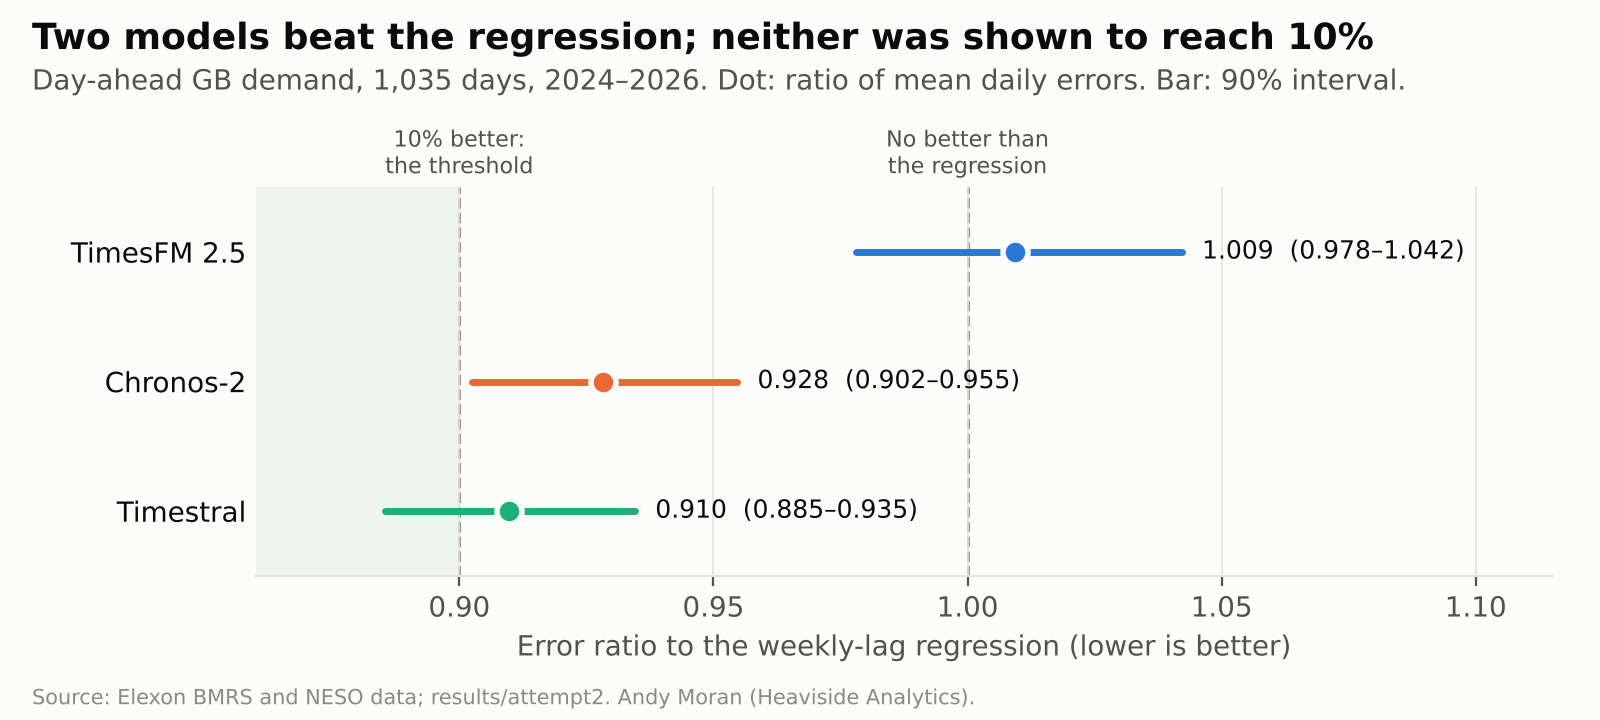
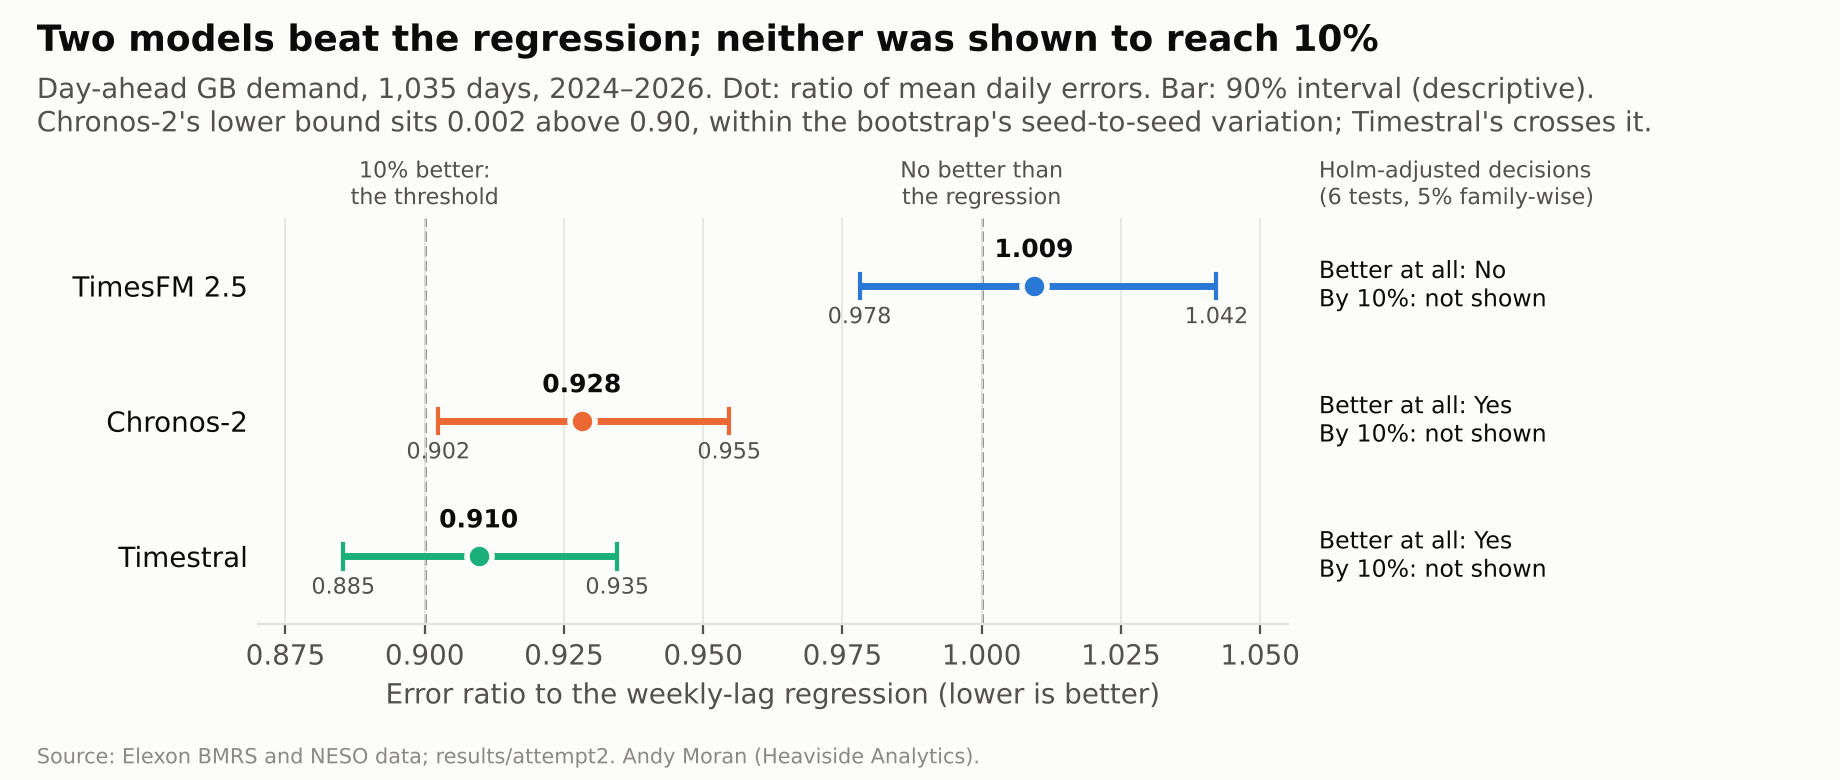
Figures revised (numeric interval ends and Holm decisions on fig 1; difference panel on fig 3; NESO on fig 4) and placed in the note; seasonal-naive floor, time-of-day and bank-holiday text corrected

diff --git a/figures/make_figures.py b/figures/make_figures.py
@@ -24,9 +24,9 @@ plt.rcParams.update({'font.family': 'DejaVu Sans', 'font.size': 10, 'axes.edgeco
                      'savefig.facecolor': SURFACE, 'axes.spines.top': False, 'axes.spines.right': False})
 
 
-def frame(fig, title, subtitle, note=SOURCE):
+def frame(fig, title, subtitle, note=SOURCE, sub_y=0.905):
     fig.text(0.02, 0.97, title, fontsize=13, fontweight='bold', color=INK, va='top')
-    fig.text(0.02, 0.905, subtitle, fontsize=10, color=INK2, va='top')
+    fig.text(0.02, sub_y, subtitle, fontsize=10, color=INK2, va='top')
     fig.text(0.02, 0.015, note, fontsize=7.5, color=MUTED, va='bottom')
 
 
@@ -35,22 +35,32 @@ def save(fig, name):
 
 
 # 1. The headline: ratio to the regression, with 90% intervals, against 1.0 and the 10% threshold
-fig, ax = plt.subplots(figsize=(8, 3.6)); fig.subplots_adjust(left=0.16, right=0.97, top=0.74, bottom=0.2)
-ax.axvspan(0.80, 0.90, color='#eef5ee', zorder=0)
+H = R['primary_tests_holm']
+fig, ax = plt.subplots(figsize=(9.2, 3.9)); fig.subplots_adjust(left=0.14, right=0.70, top=0.72, bottom=0.2)
 for x, lab in ((1.0, 'No better than\nthe regression'), (0.90, '10% better:\nthe threshold')):
     ax.axvline(x, color=MUTED, lw=1, ls='--', zorder=1)
     ax.text(x, 3.05, lab, ha='center', va='bottom', fontsize=8, color=INK2)
+ax.text(1.03, 3.05, 'Holm-adjusted decisions\n(6 tests, 5% family-wise)', transform=ax.get_yaxis_transform(),
+        ha='left', va='bottom', fontsize=8, color=INK2)
 for i, m in enumerate(reversed(MODELS)):
     c = R['primary'][m]; lo, hi = c['ci90_descriptive']; y = i + 0.5
-    ax.plot([lo, hi], [y, y], color=COLOUR[m], lw=2.5, solid_capstyle='round', zorder=2)
+    ax.plot([lo, hi], [y, y], color=COLOUR[m], lw=2.5, solid_capstyle='butt', zorder=2)
+    for e in (lo, hi): ax.plot([e, e], [y - 0.09, y + 0.09], color=COLOUR[m], lw=1.5, zorder=2)
     ax.plot(c['ratio'], y, 'o', ms=9, color=COLOUR[m], mec=SURFACE, mew=2, zorder=3)
-    ax.text(hi + 0.004, y, f"{c['ratio']:.3f}  ({lo:.3f}–{hi:.3f})", va='center', fontsize=9, color=INK)
+    ax.text(c['ratio'], y + 0.17, f"{c['ratio']:.3f}", ha='center', va='bottom', fontsize=9, color=INK, fontweight='bold')
+    ax.text(lo, y - 0.15, f'{lo:.3f}', ha='center', va='top', fontsize=8, color=INK2)
+    ax.text(hi, y - 0.15, f'{hi:.3f}', ha='center', va='top', fontsize=8, color=INK2)
+    better = 'Yes' if H[f'{m}_improvement']['rejected'] else 'No'
+    ten = 'yes' if H[f'{m}_meaningful']['rejected'] else 'not shown'
+    ax.text(1.03, y, f'Better at all: {better}\nBy 10%: {ten}', transform=ax.get_yaxis_transform(),
+            ha='left', va='center', fontsize=8.5, color=INK)
 ax.set_yticks([0.5, 1.5, 2.5]); ax.set_yticklabels([NAME[m] for m in reversed(MODELS)], fontsize=10, color=INK)
 ax.tick_params(axis='y', length=0); ax.spines['left'].set_visible(False)
-ax.set_xlim(0.86, 1.115); ax.set_ylim(0, 3.0); ax.set_xlabel('Error ratio to the weekly-lag regression (lower is better)')
+ax.set_xlim(0.87, 1.055); ax.set_ylim(0, 3.0); ax.set_xlabel('Error ratio to the weekly-lag regression (lower is better)')
 ax.grid(axis='x', color=GRID, lw=0.6, zorder=0)
 frame(fig, 'Two models beat the regression; neither was shown to reach 10%',
-      'Day-ahead GB demand, 1,035 days, 2024–2026. Dot: ratio of mean daily errors. Bar: 90% interval.')
+      "Day-ahead GB demand, 1,035 days, 2024–2026. Dot: ratio of mean daily errors. Bar: 90% interval (descriptive).\n"
+      "Chronos-2's lower bound sits 0.002 above 0.90, within the bootstrap's seed-to-seed variation; Timestral's crosses it.")
 save(fig, 'fig1_ratios.png')
 
 
@@ -72,47 +82,56 @@ frame(fig, "NESO's forecast has about half the error of every model",
 save(fig, 'fig2_error_ladder.png')
 
 
-# 3. Error by time of day (exploratory)
+# 3. Error by time of day (exploratory): levels, and each model's difference from the regression
 tod = R['exploratory']['mae_by_time_of_day']
 slots = [f'{h:02d}:{m:02d}' for h in range(24) for m in (0, 30)]
-fig, ax = plt.subplots(figsize=(9, 4.4)); fig.subplots_adjust(left=0.09, right=0.97, top=0.78, bottom=0.17)
+fig, (ax, bx) = plt.subplots(2, 1, figsize=(9, 7.2), sharex=True, gridspec_kw={'height_ratios': [1.25, 1]})
+fig.subplots_adjust(left=0.1, right=0.97, top=0.855, bottom=0.11, hspace=0.18)
 lines = ['regression', 'timesfm25', 'chronos2', 'timestral', 'neso']
-ends = {}
 for m in lines:
-    ys = [tod[m][s] for s in slots]
-    ax.plot(range(48), ys, color=COLOUR[m], lw=2, ls='--' if m == 'regression' else '-', zorder=3 if m in MODELS else 2)
-    ends[m] = ys[-1]
-ax.set_xticks(range(0, 48, 6)); ax.set_xticklabels(slots[::6]); ax.set_xlim(0, 47)
-ax.set_ylim(0, 2850); ax.set_ylabel('Mean absolute error (MW)'); ax.set_xlabel('UK clock time (start of half-hour)')
-ax.grid(axis='y', color=GRID, lw=0.6, zorder=0)
+    ax.plot(range(48), [tod[m][s_] for s_ in slots], color=COLOUR[m], lw=2, ls='--' if m == 'regression' else '-',
+            zorder=3 if m in MODELS else 2)
+ax.set_ylim(0, 2850); ax.set_ylabel('Mean absolute error (MW)'); ax.grid(axis='y', color=GRID, lw=0.6, zorder=0)
 ax.legend([plt.Line2D([], [], color=COLOUR[m], lw=2, ls='--' if m == 'regression' else '-') for m in lines],
           [NAME[m] for m in lines], ncol=5, frameon=False, fontsize=8.5, loc='upper left', bbox_to_anchor=(0, 1.02))
-frame(fig, 'The models gain most overnight; every forecaster errs most at midday',
-      'Mean absolute error by half-hour of the target day, 2024–2026. Exploratory: not tested.')
+ax.text(0.0, 1.07, 'Error by time of day', transform=ax.transAxes, fontsize=9.5, color=INK, fontweight='bold')
+bx.axhline(0, color=INK2, lw=1, ls='--', zorder=1)
+for m in MODELS:
+    bx.plot(range(48), [tod[m][s_] - tod['regression'][s_] for s_ in slots], color=COLOUR[m], lw=2, zorder=3)
+bx.set_ylabel('Model minus regression (MW)'); bx.grid(axis='y', color=GRID, lw=0.6, zorder=0)
+bx.text(0.0, 1.03, 'Difference from the regression (below the dashed line: the model gains)', transform=bx.transAxes,
+        fontsize=9.5, color=INK, fontweight='bold')
+bx.set_xticks(range(0, 48, 6)); bx.set_xticklabels(slots[::6]); bx.set_xlim(0, 47)
+bx.set_xlabel('UK clock time (start of half-hour)')
+frame(fig, "The models' edge is largest from midnight to late morning and fades by evening",
+      'Mean absolute error by half-hour of the target day, 2024–2026. Exploratory: not tested; no intervals shown.',
+      sub_y=0.935)
 save(fig, 'fig3_time_of_day.png')
 
 
-# 4. Where the models win and lose: season and bank holidays (exploratory)
+# 4. Where the models win and lose: season and bank holidays (exploratory), with NESO for comparison
 season = R['exploratory']['mae_by_season']; hol = R['exploratory']['mae_by_holiday']
 rows = [('Winter', season, 'winter'), ('Spring', season, 'spring'), ('Summer', season, 'summer'),
         ('Autumn', season, 'autumn'), (None, None, None), ('Bank holidays', hol, 'bank holiday'), ('Other days', hol, 'other day')]
-who = ['regression', 'timesfm25', 'chronos2', 'timestral']
-fig, ax = plt.subplots(figsize=(8, 4.6)); fig.subplots_adjust(left=0.17, right=0.96, top=0.77, bottom=0.16)
+who = ['regression', 'timesfm25', 'chronos2', 'timestral', 'neso']
+MARK = {'regression': 'D', 'neso': 's'}
+fig, ax = plt.subplots(figsize=(8.4, 5.0)); fig.subplots_adjust(left=0.16, right=0.96, top=0.76, bottom=0.17)
 labels, ys = [], []
 for i, (lab, tab, key) in enumerate(rows):
     y = len(rows) - 1 - i
     if lab is None: continue
     labels.append(lab); ys.append(y)
-    for k, m in enumerate(who):                     # stagger vertically so no marker hides another
-        dy = 0.27 - 0.18 * k
-        if m != 'regression':
+    for k, m in enumerate(who):     # offset within the row (the category axis) so no marker hides another;
+        dy = 0.30 - 0.15 * k        # the values, on the horizontal axis, are plotted exactly
+        if m in MODELS:
             ax.plot([tab['regression'][key], tab[m][key]], [y + dy, y + dy], color=COLOUR[m], lw=1.2, alpha=0.45, zorder=1)
-        ax.plot(tab[m][key], y + dy, 'D' if m == 'regression' else 'o', ms=7, color=COLOUR[m], mec=SURFACE, mew=1.2, zorder=3)
+        ax.plot(tab[m][key], y + dy, MARK.get(m, 'o'), ms=7, color=COLOUR[m], mec=SURFACE, mew=1.2, zorder=3)
 ax.set_yticks(ys); ax.set_yticklabels(labels, fontsize=10, color=INK); ax.tick_params(axis='y', length=0)
-ax.spines['left'].set_visible(False); ax.set_xlim(1000, 2700); ax.set_ylim(-0.6, 7.0)
+ax.spines['left'].set_visible(False); ax.set_xlim(500, 2700); ax.set_ylim(-0.6, 7.0)
 ax.set_xlabel('Mean daily absolute error (MW)'); ax.grid(axis='x', color=GRID, lw=0.6, zorder=0)
-ax.legend([plt.Line2D([], [], marker='D' if m == 'regression' else 'o', ls='', ms=8, color=COLOUR[m]) for m in who],
-          [NAME[m] for m in who], ncol=4, frameon=False, fontsize=9, loc='upper left', bbox_to_anchor=(0, 1.1))
+ax.legend([plt.Line2D([], [], marker=MARK.get(m, 'o'), ls='', ms=8, color=COLOUR[m]) for m in who],
+          [NAME[m] for m in who], ncol=5, frameon=False, fontsize=9, loc='upper left', bbox_to_anchor=(0, 1.1))
 frame(fig, 'The models gain in winter and lose on bank holidays',
-      'Mean daily error by season and day type, 2024–2026. Thin lines run from the regression. Exploratory.')
+      'Mean daily error by season and day type, 2024–2026. Thin lines run from the regression. Exploratory.\n'
+      'Markers are offset within each row for legibility only; the error values are on the horizontal axis.')
 save(fig, 'fig4_season_holiday.png')

diff --git a/RESULTS.md b/RESULTS.md
@@ -52,6 +52,10 @@ Each model against the regression over the full window, labelled "inside possibl
 | Chronos-2 | 1,441 | 0.928 | 0.902–0.955 | **Yes** | Not shown |
 | Timestral | 1,413 | 0.910 | 0.885–0.935 | **Yes** | Not shown |
 
+The seasonal-naive floor (the same half-hour one week earlier; reported, not tested) had a mean daily error of 2,095 MW. Every forecaster beat it; the regression's error was 0.741 of it.
+
+![Each model's error ratio to the regression, with 90% intervals and the Holm-adjusted decisions](figures/fig1_ratios.png)
+
 The two right-hand columns are the six one-sided tests, Holm-adjusted together at a family-wise 5% level. One-sided p-values for "better at all", before adjustment: TimesFM 2.5 0.695; Chronos-2 and Timestral below 0.0005 (no bootstrap draw out of 2,000 reached a ratio of 1). For "better by 10%": TimesFM 2.5 1.000, Chronos-2 0.962, Timestral 0.730.
 
 The plan's sentences, written before any forecast was made:
@@ -74,6 +78,8 @@ The two intervals sit differently against the threshold. Chronos-2's lower bound
 | Chronos-2 | 2.076 | 2.002–2.151 | 2.088 | 1.956–2.214 | 367 |
 | Timestral | 2.035 | 1.961–2.108 | 2.510 | 2.468–3.200 | 17 |
 
+![Mean daily error for every forecaster, from seasonal naive at 2,095 MW to NESO at 694 MW](figures/fig2_error_ladder.png)
+
 NESO's mean daily error was 694 MW. Against NESO's published forecast, every model's error was about twice as large, and the regression's 2.24 times as large. NESO's forecast uses weather information the models did not have, and NESO's own operational modelling.
 
 One published NESO forecast was far from the outturn. On 5 March 2025, Elexon's 08:45 publication put demand at 13,625 MW for 12:00–12:30, against an outturn of 25,524 MW. NESO's own performance file holds 25,050 MW for that half-hour; this is the largest of the file mismatches (11,425 MW). So the published figure is probably a publication error rather than NESO's forecast as NESO recorded it. The plan scores what a user could see at 09:30, so it counts as published. Leaving the day out moves the NESO ratios by less than 0.01.
@@ -92,10 +98,14 @@ One published NESO forecast was far from the outturn. On 5 March 2025, Elexon's 
 
 None of these was tested. They describe where the errors lie.
 
+![Error by time of day, and each model's difference from the regression](figures/fig3_time_of_day.png)
+
+![Mean daily error by season and on bank holidays, for the regression, the three models and NESO](figures/fig4_season_holiday.png)
+
 - **Ranking.** Timestral had slightly smaller errors than Chronos-2 (Chronos-2's error divided by Timestral's: 1.020; 1.007–1.034), and both beat TimesFM 2.5.
 - **Seasons.** The models gained most in winter: Timestral's mean daily error was 1,592 MW against the regression's 1,876. In spring they did no better than the regression: 1,521 MW for Timestral against 1,512.
-- **Time of day.** The models gained most overnight. At 03:00, Chronos-2's mean error was 869 MW against the regression's 1,099. Every forecaster, NESO included, had its largest errors between 12:30 and 13:00, probably because that is when solar generation behind the meter, which the transmission network does not see, varies most.
-- **Bank holidays.** On bank holidays every model lost to the regression: the models' mean daily errors were 2,387–2,549 MW against the regression's 1,800. The regression has a bank-holiday term; the models know nothing of the calendar.
+- **Time of day.** Chronos-2 and Timestral gained most from midnight to late morning: about 230 MW a half-hour on the regression at 03:00, and 200–230 MW at 10:00. Their edge faded through the afternoon and was close to zero by evening. TimesFM 2.5 gained less overnight and was worse than the regression from mid-afternoon (by 174 MW at 20:00). Every forecaster, NESO included, had its largest errors between 12:30 and 13:00, probably because that is when solar generation behind the meter, which the transmission network does not see, varies most.
+- **Bank holidays.** On bank holidays every model lost to the regression: the models' mean daily errors were 2,387–2,549 MW against the regression's 1,800. The blind spot is the models' own. On bank holidays the regression's error rose by 16% over other days and NESO's by 14% (790 MW against 692); the models' rose by 65–80%. The regression has a bank-holiday term and NESO models the calendar; the zero-shot models know nothing of it.
 - **NESO's own record.** NESO's performance file agrees with Elexon's 09:30 record on 91.2% of daytime half-hours. Excluding the 94 days on which they differ moves the models' ratios to NESO to 2.293, 2.112 and 2.060 (TimesFM 2.5, Chronos-2, Timestral); using the file's values on those days gives 2.282, 2.099 and 2.057. The models' order is the same under every treatment, since each changes NESO's errors, which all three ratios share. These checks were added by deviation 1, after attempt 1, and are not preregistered.
 
 ## What this study cannot show
@@ -117,6 +127,7 @@ Off the shelf, with eight weeks of history and nothing else, two of the three mo
 - **Models:** TimesFM 2.5, `google/timesfm-2.5-200m-pytorch` @ `1d952420`, weights SHA-256 `2f776efe…`, `timesfm` 3.0.2. Chronos-2, `amazon/chronos-2` @ `29ec3766`, weights `ddcda3c7…`, `chronos-forecasting` 2.3.2, `cross_learning` off. Timestral-209M, `mistralai/Timestral-209M` @ `9874d252`, weights `1456effb…`, `timestral` 1.0.0 @ `a534bdbd`. Median forecasts; 64 days per call; every setting written out in `code/models.py`.
 - **Environment:** torch 2.15.0 (CPU), numpy 2.4.6, pandas 3.1.0, Python 3.11.18, Linux under WSL2.
 - **Data:** downloaded once on 3 November 2026 and hashed in `data/fetch_manifest.json`: Elexon initial national demand outturn and day-ahead demand forecast publications; NESO's day-ahead forecast performance file and historic demand data; GOV.UK bank holidays for England and Wales. One missing half-hour (03:30 on 29 December 2023) was filled in the models' inputs under the plan's gap rule; it lies in the input history of 54 target days.
+- **Figures:** drawn by `figures/make_figures.py` from `results/attempt2/results.json` alone.
 - **Outputs:** `results/attempt2/`: `results.json`, `forecasts.csv`, `daily_mae.csv`, `exclusions.csv`, `context_fills.csv` and `neso_file_mismatches.csv`. Attempt 1's outputs are kept unchanged in `results/attempt1/`.
 - **Statistics:** moving-block bootstrap over days, blocks of 7, 2,000 draws, seed 20261103; leakage check seeds 20261104 onwards.
 
